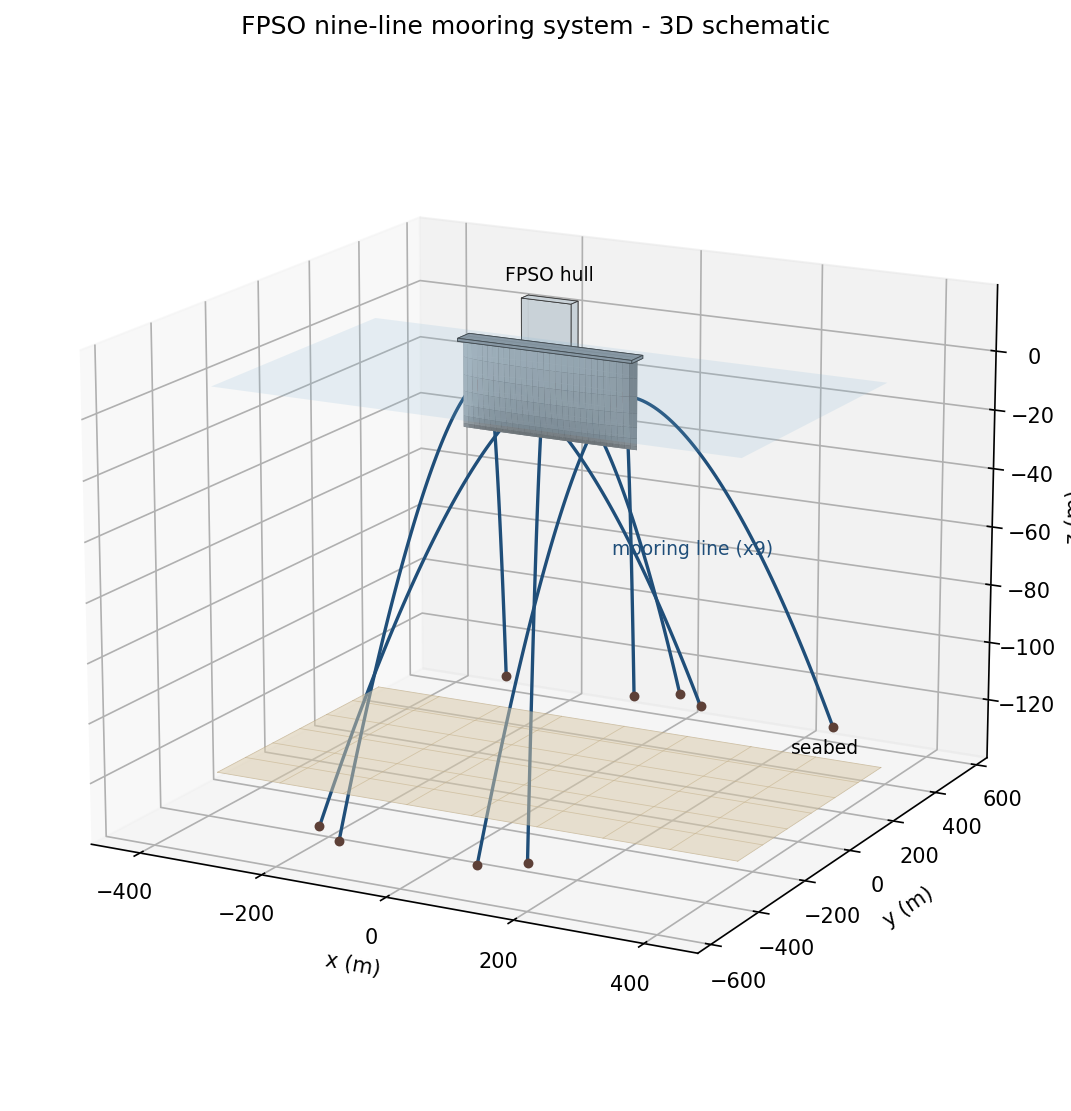
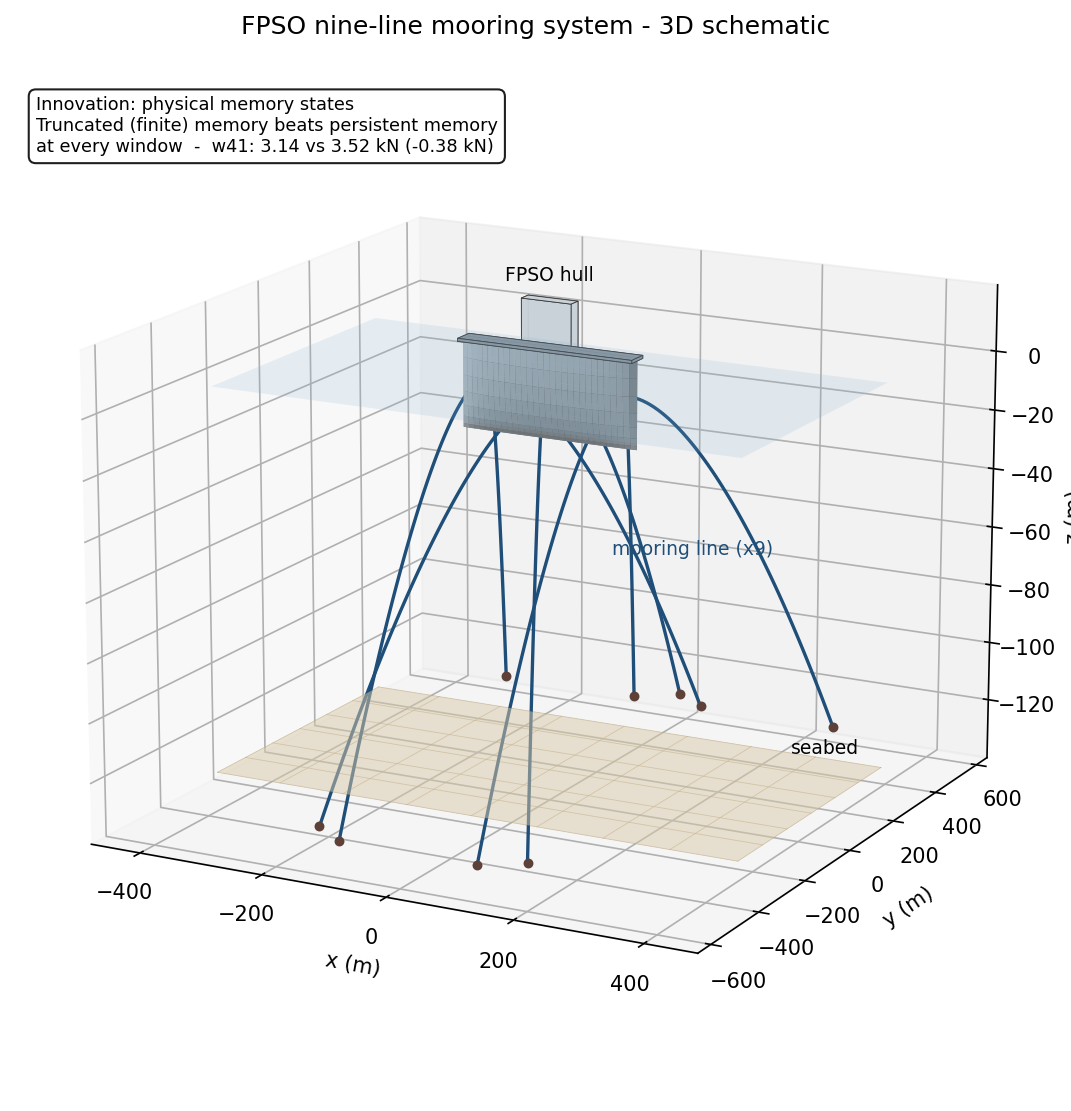
Innovation annotations on 3D figures

Changed region(s): [[0.0308, 0.0612, 0.4622, 0.153]]

diff --git a/figures/make_3d_schematic.py b/figures/make_3d_schematic.py
@@ -97,5 +97,8 @@ print('lines:', n)
 ax.text(0, 0, D+22, 'FPSO hull', fontsize=9, ha='center')
 ax.text(300, 250, -DEPTH+4, 'seabed', fontsize=9)
 ax.text(200, -260, -40, 'mooring line (x9)', fontsize=9, color='#1f4e79')
+ax.text2D(0.02, 0.96, 'Innovation: physical memory states\nTruncated (finite) memory beats persistent memory\nat every window  -  w41: 3.14 vs 3.52 kN (-0.38 kN)',
+    transform=ax.transAxes, fontsize=8.5, va='top', ha='left',
+    bbox=dict(boxstyle='round,pad=0.4', facecolor='white', alpha=0.88))
 finish(ax, str(Path(__file__).parent / 'fig3_mooring_3d.png'),
        'FPSO nine-line mooring system - 3D schematic', elev=16, azim=-62)

diff --git a/README.md b/README.md
@@ -51,7 +51,3 @@ Regenerate with `python figures/make_figures.py` (needs `matplotlib`, `pandas`, 
 ![FPSO nine-line mooring 3D schematic](figures/fig3_mooring_3d.png)
 
 Schematic illustration rendered in Python (matplotlib) - not ANSYS/Fluent/STAR-CCM+ output. Regenerate with `python figures/make_3d_schematic.py` (needs `matplotlib`, `numpy`). The 9 mooring lines and fairlead/anchor layout illustrate the physical system whose endpoint loads this project predicts.
-
-![Innovation: finite (truncated) physical memory states beat persistent memory at every window length.](figures/fig4_memory_window.png)
-
-*Innovation: finite (truncated) physical memory states beat persistent memory at every window length. Regenerate with `python figures/make_innovation_figure.py`.*
